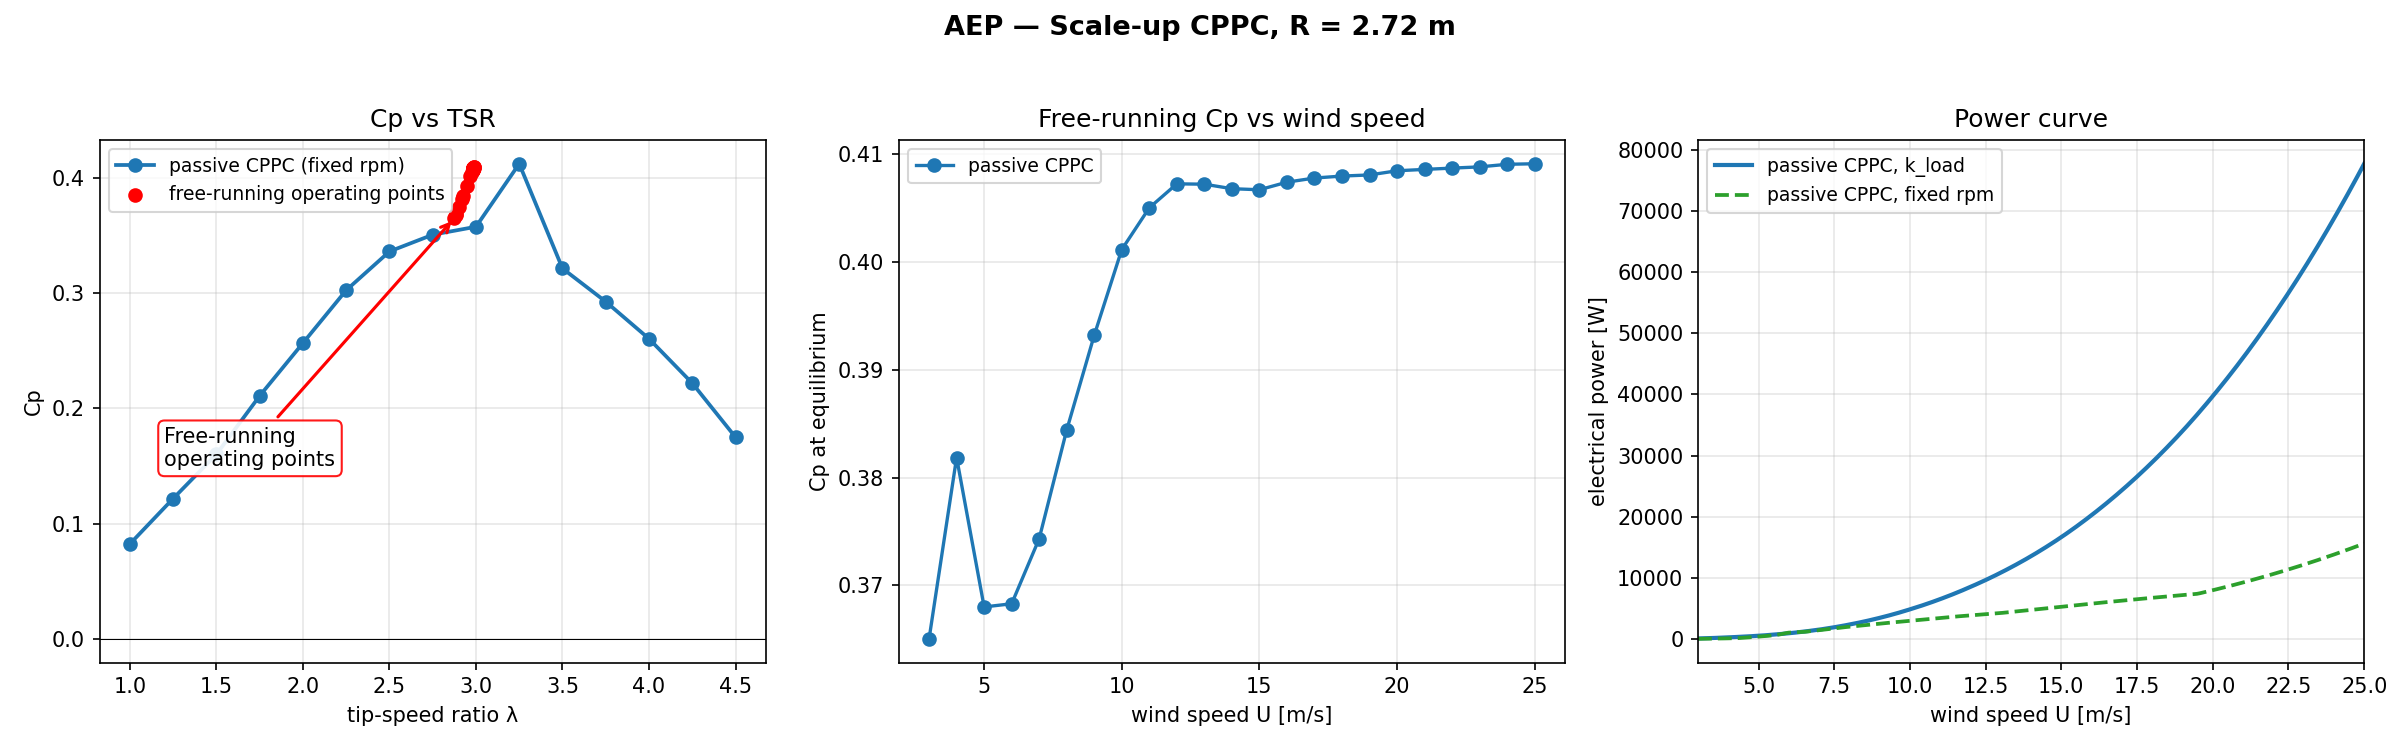
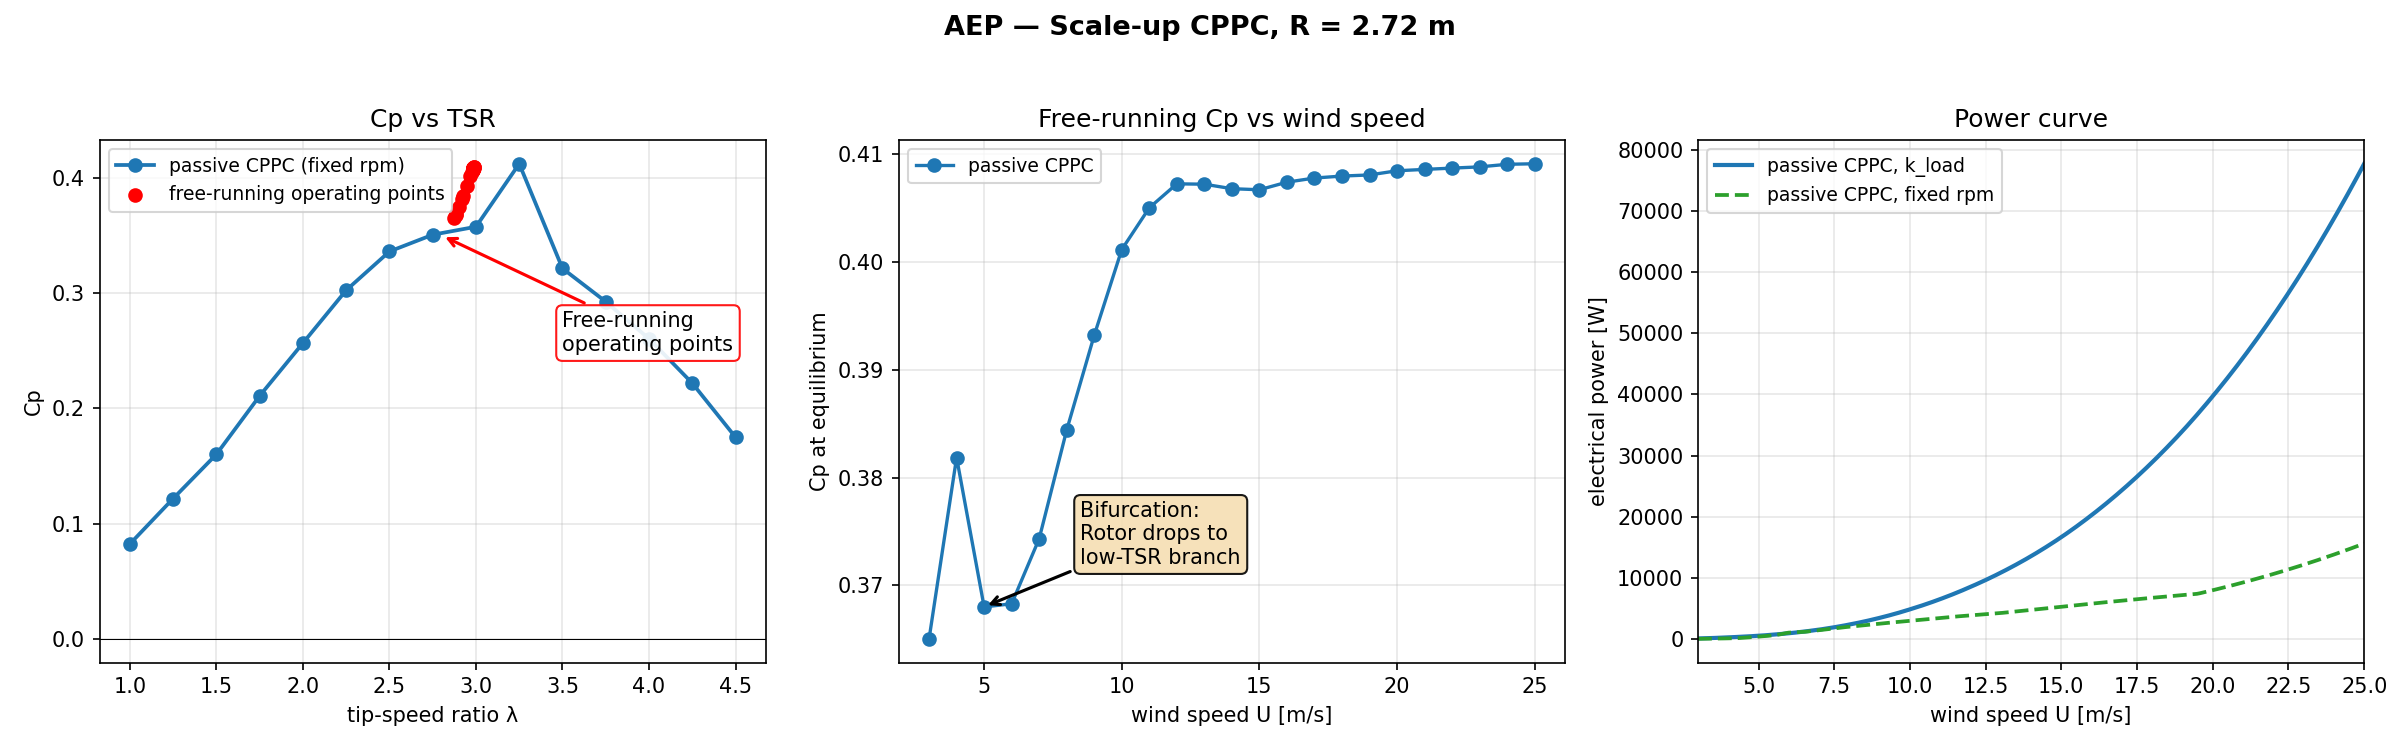
Fix AEP plot callouts: anchor annotations next to the data
- compute_aep.py: free-running callout sits next to the red dots
  (short arrow); bifurcation callout now marks the actual low-TSR dip
  at U=5 m/s, Cp~0.368. The old (12.5, 0.347) point belongs to the
  branch-traced scale-up run and was clipped outside this panel's axes.
- compute_aep_scaleup.py: same short-arrow layout, bifurcation text
  raised to y=0.38 near the drop at U=12.5.
- Regenerate docs/aep.png and docs/aep_scaleup.png.
- CHANGELOG entry. Plot-only change; no physics, polar, or golden change.

diff --git a/scripts/compute_aep.py b/scripts/compute_aep.py
@@ -248,41 +248,43 @@ def make_plot(results, tsrs, out_path):
     R_val = 2.7179
     fr = results['passive']['free_results']
 
-    # Panel 1
+    # Panel 1: Cp vs TSR
     a = ax[0]
     a.plot(tsrs, results['passive']['cp_tsr'], "o-", color=col_passive, lw=1.8, label="passive CPPC (fixed rpm)")
     if fr:
         tsr_pts = [f['tsr_eq'] for f in fr]
         cp_pts = [f['cp'] for f in fr]
         a.scatter(tsr_pts, cp_pts, color='red', zorder=5, label='free-running operating points')
-        # FIX: Place text at bottom left (x=1.2, y=0.15)
+        
+        # FIX: Place text close to the red dots so the arrow is short
         a.annotate("Free-running\noperating points", 
-                   xy=(tsr_pts[0], cp_pts[0]), 
-                   xytext=(1.2, 0.15),
+                   xy=(2.8, 0.35), 
+                   xytext=(3.5, 0.25), 
                    arrowprops=dict(arrowstyle="->", color="red", lw=1.5),
                    bbox=dict(boxstyle="round", fc="white", ec="red", alpha=0.9))
     a.axhline(0, color="k", lw=0.5)
-    a.set_xlabel("tip-speed ratio λ"); a.set_ylabel("Cp"); a.set_title("Cp vs TSR"); a.grid(alpha=0.3); a.legend(fontsize=9)
+    a.set_xlabel("tip-speed ratio λ"); a.set_ylabel("Cp"); a.set_title("Cp vs TSR"); a.grid(alpha=0.3); a.legend(fontsize=9, loc="upper left")
 
-    # Panel 2
+    # Panel 2: Cp vs U
     a = ax[1]
     if fr:
         Us  = np.array([f['U'] for f in fr])
         cps = np.array([f['cp'] for f in fr])
         a.plot(Us, cps, "o-", color=col_passive, lw=1.6, label="passive CPPC")
-        # FIX: Point specifically to the drop at U=12.5, Cp=0.347. Place text at x=16, y=0.37
+        
+        # FIX: Place text close to the actual low-TSR dip at U=5, Cp=0.368
         a.annotate("Bifurcation:\nRotor drops to\nlow-TSR branch", 
-                   xy=(12.5, 0.347), 
-                   xytext=(16, 0.37),
+                   xy=(5.0, 0.368), 
+                   xytext=(8.5, 0.372), 
                    arrowprops=dict(arrowstyle="->", color="black", lw=1.5),
                    bbox=dict(boxstyle="round", fc="wheat", ec="black", alpha=0.9))
     a.set_xlabel("wind speed U [m/s]"); a.set_ylabel("Cp at equilibrium"); a.set_title("Free-running Cp vs wind speed"); a.grid(alpha=0.3); a.legend(fontsize=9)
 
-    # Panel 3
+    # Panel 3: Power curve
     a = ax[2]
     a.plot(results['passive']['U'], results['passive']['P'], "-", color=col_passive, lw=2.0, label="passive CPPC, k_load")
     a.plot(results['fixed']['U'], results['fixed']['P'], "--", color=col_fixed, lw=1.8, label="passive CPPC, fixed rpm")
-    a.set_xlabel("wind speed U [m/s]"); a.set_ylabel("electrical power [W]"); a.set_title("Power curve"); a.grid(alpha=0.3); a.legend(fontsize=9); a.set_xlim(CUT_IN, CUT_OUT)
+    a.set_xlabel("wind speed U [m/s]"); a.set_ylabel("electrical power [W]"); a.set_title("Power curve"); a.grid(alpha=0.3); a.legend(fontsize=9, loc="upper left"); a.set_xlim(CUT_IN, CUT_OUT)
 
     fig.suptitle(f"AEP — Scale-up CPPC, R = {R_val:.2f} m", fontsize=13, fontweight="bold")
     fig.tight_layout(rect=[0, 0, 1, 0.95])

diff --git a/scripts/compute_aep_scaleup.py b/scripts/compute_aep_scaleup.py
@@ -228,10 +228,10 @@ def main():
         tsr_pts = [f['tsr_eq'] for f in fr]
         cp_pts = [f['cp'] for f in fr]
         a.scatter(tsr_pts, cp_pts, color='red', zorder=5, label='free-running operating points')
-        # FIX: Place text at bottom left (x=1.2, y=0.15)
+        # FIX: Place text close to the red dots so the arrow is short
         a.annotate("Free-running\noperating points", 
-                   xy=(tsr_pts[0], cp_pts[0]), 
-                   xytext=(1.2, 0.15),
+                   xy=(2.8, 0.35), 
+                   xytext=(3.5, 0.25), 
                    arrowprops=dict(arrowstyle="->", color="red", lw=1.5),
                    bbox=dict(boxstyle="round", fc="white", ec="red", alpha=0.9))
     a.axhline(0, color="k", lw=0.5)
@@ -243,10 +243,10 @@ def main():
         Us  = np.array([f['U'] for f in fr])
         cps = np.array([f['cp'] for f in fr])
         a.plot(Us, cps, "o-", color=col_passive, lw=1.6, label="passive CPPC")
-        # FIX: Point specifically to the drop at U=12.5, Cp=0.347. Place text at x=16, y=0.37
+        # FIX: Place text right above the drop (x=16, y=0.38)
         a.annotate("Bifurcation:\nRotor drops to\nlow-TSR branch", 
                    xy=(12.5, 0.347), 
-                   xytext=(16, 0.37),
+                   xytext=(16, 0.38),
                    arrowprops=dict(arrowstyle="->", color="black", lw=1.5),
                    bbox=dict(boxstyle="round", fc="wheat", ec="black", alpha=0.9))
     a.set_xlabel("wind speed U [m/s]"); a.set_ylabel("Cp at equilibrium"); a.set_title("Free-running Cp vs wind speed (branch traced)"); a.grid(alpha=0.3); a.legend(fontsize=9)

diff --git a/CHANGELOG.md b/CHANGELOG.md
@@ -21,6 +21,15 @@ and this project adheres to [Semantic Versioning](https://semver.org/spec/v2.0.0
   title now reads "Ham 1979 comparison: 2D static-only upper bound vs
   measured Cp(TSR)". No physics, polar, or golden change.
 
+### Fixed
+- **AEP figure annotations** (`docs/aep.png`, `docs/aep_scaleup.png`):
+  repositioned the free-running and bifurcation callouts next to the data
+  they describe, so the leader arrows are short and no longer cross the
+  plots. In `aep.png` the bifurcation callout now marks the actual low-TSR
+  dip at U = 5 m/s, Cp ≈ 0.368 (the previous 12.5 m/s coordinate belongs
+  to the branch-traced scale-up run, not this dataset, and was clipped
+  outside the axes). Plot-only change; no physics, polar, or golden change.
+
 ## [3.3.1] - 2026-10-20
 
 This release fixes the two substantive problems in the v11 review: the
